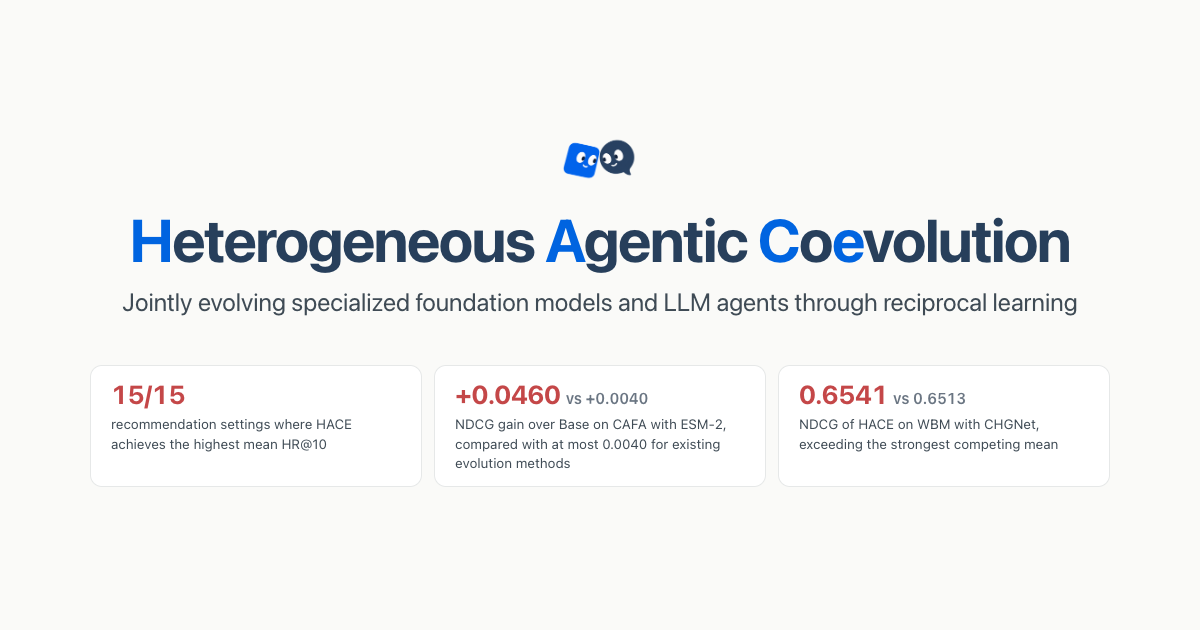
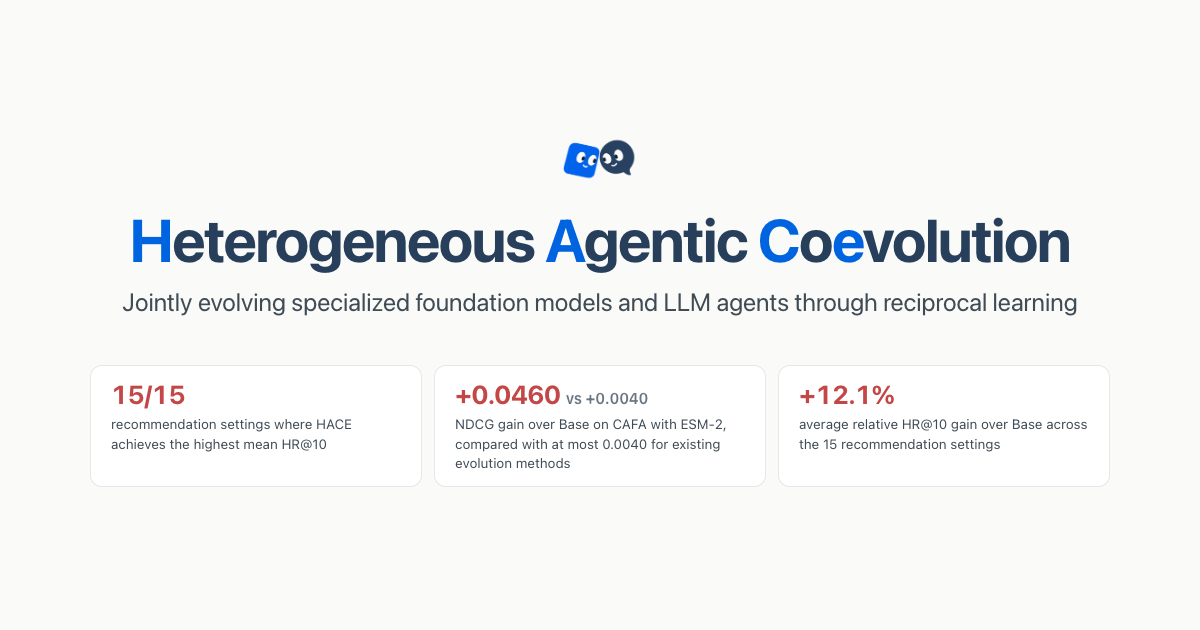
Label evolution trajectories as selection scores; use recommendation average gain as the third headline number

Changed region(s): [[0.6475, 0.6032, 0.8942, 0.7238]]

diff --git a/index.html b/index.html
@@ -65,7 +65,7 @@
     <div class="stats">
       <div class="stat"><b>15/15</b>recommendation settings where HACE achieves the highest mean HR@10</div>
       <div class="stat"><b>+0.0460 <small>vs +0.0040</small></b>NDCG gain over Base on CAFA with <span class="nowrap">ESM-2</span>, compared with at most 0.0040 for existing evolution methods</div>
-      <div class="stat"><b>0.6541 <small>vs 0.6513</small></b>NDCG of HACE on WBM with CHGNet, exceeding the strongest competing mean</div>
+      <div class="stat"><b>+12.1%</b>average relative HR@10 gain over Base across the 15 recommendation settings</div>
     </div>
   </div>
 </header>
@@ -198,14 +198,14 @@
 <section id="dynamics">
   <div class="col">
     <p class="eyebrow">Evolution dynamics</p>
-    <h2>HACE reaches the highest score in all three recorded trajectories</h2>
+    <h2>HACE reaches the highest selection score in all three recorded trajectories</h2>
     <p>In HACE, each retained specialist and harness defines the starting point for the next round. The trajectories show when higher scoring configurations are found during search.</p>
   </div>
   <div class="wide">
     <figure class="card" id="fig-evo">
       <div class="viz" id="viz-evo" aria-label="Best recorded selection score per round for each method in three domains"></div>
-      <figcaption><b>Evolution dynamics of three domains.</b> Best recorded scores, measured by HR@10, Recall@10 and mean NDCG@3 and
-        NDCG@5. Dashed lines mark the frozen specialist.</figcaption>
+      <figcaption><b>Evolution dynamics of three domains.</b> Best recorded selection scores, measured by HR@10, Recall@10 and mean
+        NDCG@3 and NDCG@5. Dashed lines mark the frozen specialist. These trajectories describe the scores observed during selection, while the main tables report aggregate evaluation results.</figcaption>
     </figure>
   </div>
 </section>
@@ -222,7 +222,7 @@
     <figure class="card" id="fig-timeline">
       <div class="viz" id="viz-timeline" aria-label="Recorded selection scores and their running maxima from one run in each domain, with selected updates"></div>
       <figcaption><b>Recorded selection scores and their running maxima from one run in each domain.</b> Filled points mark
-        selected updates.</figcaption>
+        selected updates. These trajectories describe the scores observed during selection, while the main tables report aggregate evaluation results.</figcaption>
     </figure>
   </div>
   <div class="col">
